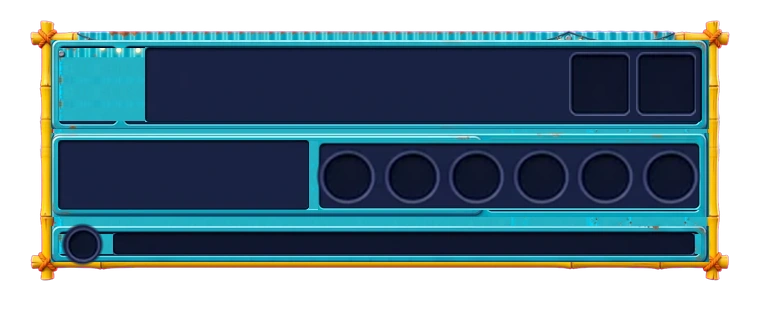
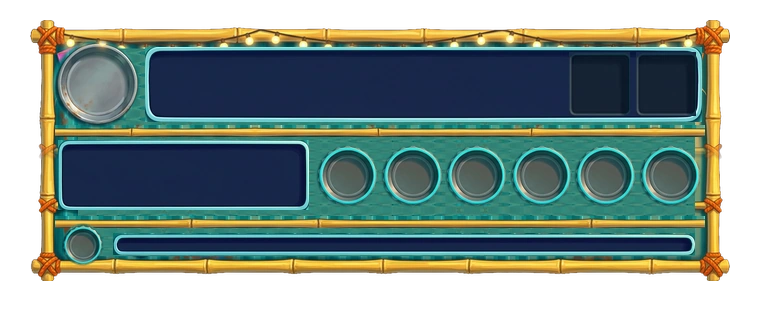
1.c Rooftop: new tin-and-bamboo board (fairy lights, bottle-cap sockets, tin dish behind the crest — Figma 359:191) on the locked layout
Claude-Session: https://claude.ai/code/session_01EnXvJ8XPeyqCUAaLS3ewZZ

diff --git a/art/ui/hud_lock/build_locked_boards.py b/art/ui/hud_lock/build_locked_boards.py
@@ -49,6 +49,9 @@ def frac_hud():
 
 # ---- per-board source measurements (original px, 760 wide). slots = the board's own HUD fractions ----
 B = {
+ 'rooftop2': dict(k=.921, Ri=(52, 72, 722, 296), mat=(127, 133, 400, 560), badgeRing=(118, 84, 48), deco=[('rails', [(135, 147, 300, 500), (233, 245, 300, 500)], (55, 705))],
+   chase=[0.2895, 0.0566, 0.9382, 0.1632], wk=[0.7566, 0.0724, 0.8276, 0.1461], score=[0.0566, 0.2053, 0.2632, 0.3],
+   sock=[0.3447, 0.2513, 0.0355], badge=[0.0921, 0.0474, 0.2184, 0.1737], eIcon=[0.1592, 0.3579, 0.0224], eBar=[0.3053, 0.3368, 0.9368, 0.3763]),
  'maidan4': dict(k=.921, Ri=(32, 32, 728, 290), mat=(101, 108, 200, 680), amp=.8, badgeRing=(97, 67, 34), deco=[('rails', [(107, 116, 192, 480), (218, 227, 192, 480)], (58, 702))],
    chase=[0.2079, 0.0487, 0.9329, 0.1316], wk=[0.7579, 0.0618, 0.8184, 0.1211], score=[0.0684, 0.1658, 0.3, 0.2776],
    sock=[0.3658, 0.2184, 0.0342], badge=[0.0855, 0.0447, 0.1711, 0.1329], eIcon=[0.1816, 0.3408, 0.0237], eBar=[0.3237, 0.3171, 0.9303, 0.3645]),
